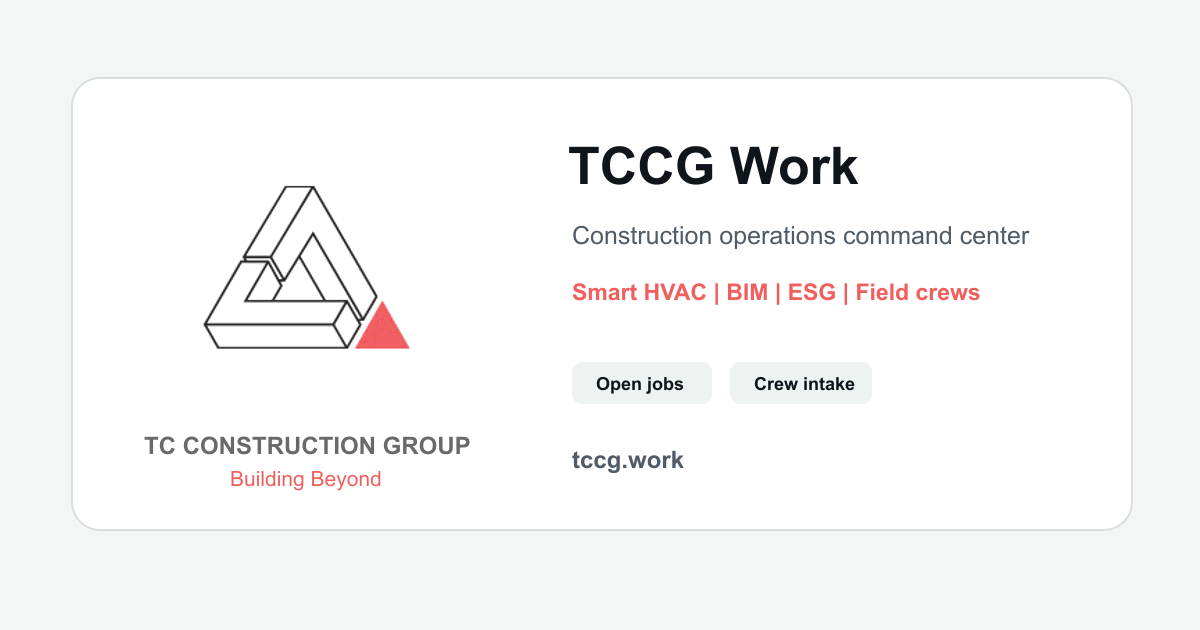
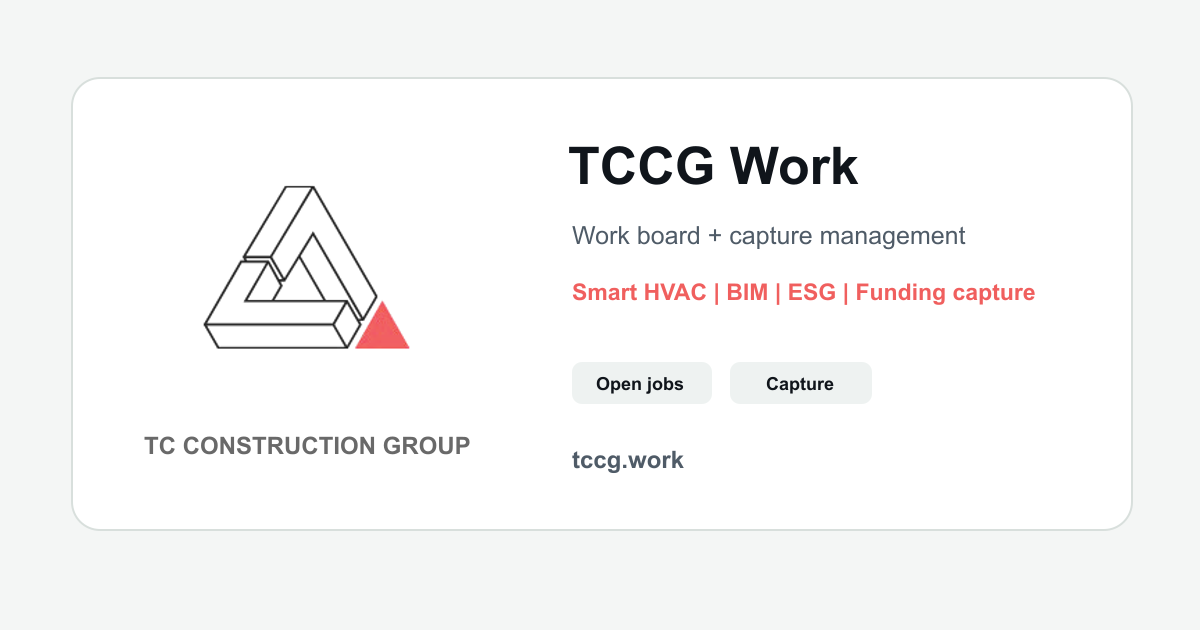
feat: refresh TCCG capture branding

diff --git a/src/components/Shell.tsx b/src/components/Shell.tsx
@@ -21,14 +21,23 @@ function Header() {
     <header className="fixed left-0 right-0 top-0 z-50 border-b border-[var(--border-subtle)] bg-[rgba(248,246,241,0.92)] backdrop-blur-md">
       <div className="mx-auto max-w-[90rem] px-6 lg:px-8">
         <div className="flex h-16 items-center justify-between">
-          <Link href="/" aria-label="TC Construction Group" className="flex items-center gap-3">
-            <Image src={versionedAsset("/icon.png")} alt="TC Construction Group" width={44} height={44} className="h-11 w-11" priority />
-            <div className="hidden sm:block">
-              <Image src={versionedAsset("/logo.svg")} alt="TC Construction Group" width={180} height={73} className="h-9 w-auto" priority />
-              <p className="mt-1 text-[10px] font-semibold uppercase tracking-[0.22em] text-[var(--text-secondary)]">
-                Construction operations
-              </p>
-            </div>
+          <Link href="/" aria-label="TC Construction Group" className="flex items-center">
+            <Image
+              src={versionedAsset("/logo.svg")}
+              alt="TC Construction Group"
+              width={204}
+              height={40}
+              className="hidden h-10 w-auto sm:block"
+              priority
+            />
+            <Image
+              src={versionedAsset("/icon.png")}
+              alt="TC Construction Group"
+              width={44}
+              height={44}
+              className="h-11 w-11 sm:hidden"
+              priority
+            />
           </Link>
 
           <div className="hidden md:flex md:gap-x-8">
@@ -130,9 +139,9 @@ function Footer() {
               <Image
                 src={versionedAsset("/logo.svg")}
                 alt="TC Construction Group"
-                width={260}
-                height={106}
-                className="h-20 w-auto"
+                width={306}
+                height={60}
+                className="h-12 w-auto"
               />
             </div>
             <p className="mt-5 max-w-md text-sm leading-7 text-white/65">

diff --git a/src/app/layout.tsx b/src/app/layout.tsx
@@ -14,11 +14,11 @@ export const metadata: Metadata = {
   metadataBase: new URL("https://tccg.work"),
   applicationName: "TCCG Work",
   title: {
-    default: "TCCG Work | Construction Operations Platform",
+    default: "TCCG Work | TC Construction Group",
     template: "%s | TCCG Work",
   },
   description:
-    "A construction operations platform for TCCG open jobs, DAO tasks, BIM coordination, smart HVAC delivery, field crews, safety, and ESG closeout.",
+    "Work management and capture platform for TC Construction Group smart HVAC, BIM, ESG, and field delivery.",
   icons: {
     icon: [
       { url: versionedAsset("/favicon.ico") },
@@ -54,9 +54,9 @@ export const metadata: Metadata = {
     ],
   },
   openGraph: {
-    title: "TCCG Work | Construction Operations Platform",
+    title: "TCCG Work | TC Construction Group",
     description:
-      "Dynamic work board for TCCG smart HVAC, BIM, ESG, and construction field execution.",
+      "Dynamic work board and capture workspace for TCCG smart HVAC, BIM, ESG, and field execution.",
     url: "https://tccg.work",
     siteName: "TCCG Work",
     images: [
@@ -64,16 +64,16 @@ export const metadata: Metadata = {
         url: versionedAsset("/og-image.png"),
         width: 1200,
         height: 630,
-        alt: "TCCG Work construction operations platform",
+        alt: "TCCG Work platform for TC Construction Group",
       },
     ],
     type: "website",
   },
   twitter: {
     card: "summary_large_image",
-    title: "TCCG Work | Construction Operations Platform",
+    title: "TCCG Work | TC Construction Group",
     description:
-      "Dynamic work board for TCCG smart HVAC, BIM, ESG, and construction field execution.",
+      "Dynamic work board and capture workspace for TCCG smart HVAC, BIM, ESG, and field execution.",
     images: [versionedAsset("/og-image.png")],
   },
   other: {

diff --git a/src/components/CaptureManagementWorkspace.tsx b/src/components/CaptureManagementWorkspace.tsx
@@ -440,7 +440,7 @@ export function CaptureManagementWorkspace() {
           <div className="flex flex-col gap-5 xl:flex-row xl:items-end xl:justify-between">
             <div>
               <p className="text-xs font-semibold uppercase tracking-wide text-[var(--text-secondary)]">
-                Source truth: tccg.capture_management.v1
+                TCCG Work Capture
               </p>
               <h1 className="mt-2 text-3xl font-semibold text-[var(--text-primary)] sm:text-4xl">
                 Capture management workspace
@@ -457,6 +457,9 @@ export function CaptureManagementWorkspace() {
                 </span>
                 <span className="rounded-full border border-slate-200 bg-white px-3 py-1">
                   Public sector
+                </span>
+                <span className="rounded-full border border-slate-200 bg-white px-3 py-1">
+                  Source: tccg.capture_management.v1
                 </span>
               </div>
             </div>

diff --git a/src/components/ConstructionOpsPlatform.tsx b/src/components/ConstructionOpsPlatform.tsx
@@ -487,7 +487,7 @@ export function ConstructionOpsPlatform() {
                   TCCG Operations Platform
                 </p>
                 <h1 className="mt-1 text-3xl font-semibold text-[var(--text-primary)] sm:text-4xl">
-                  Construction work command center
+                  Construction operations command center
                 </h1>
               </div>
             </div>

diff --git a/src/app/manifest.ts b/src/app/manifest.ts
@@ -7,7 +7,7 @@ export default function manifest(): MetadataRoute.Manifest {
     name: "TCCG Work",
     short_name: "TCCG",
     description:
-      "Construction operations command center for TC Construction Group.",
+      "Work management and capture platform for TC Construction Group.",
     id: "/",
     start_url: "/",
     scope: "/",

diff --git a/src/lib/brandAssets.ts b/src/lib/brandAssets.ts
@@ -1,4 +1,4 @@
-export const brandAssetVersion = "20260603";
+export const brandAssetVersion = "20260605";
 
 export function versionedAsset(path: `/${string}`) {
   return `${path}?v=${brandAssetVersion}`;
